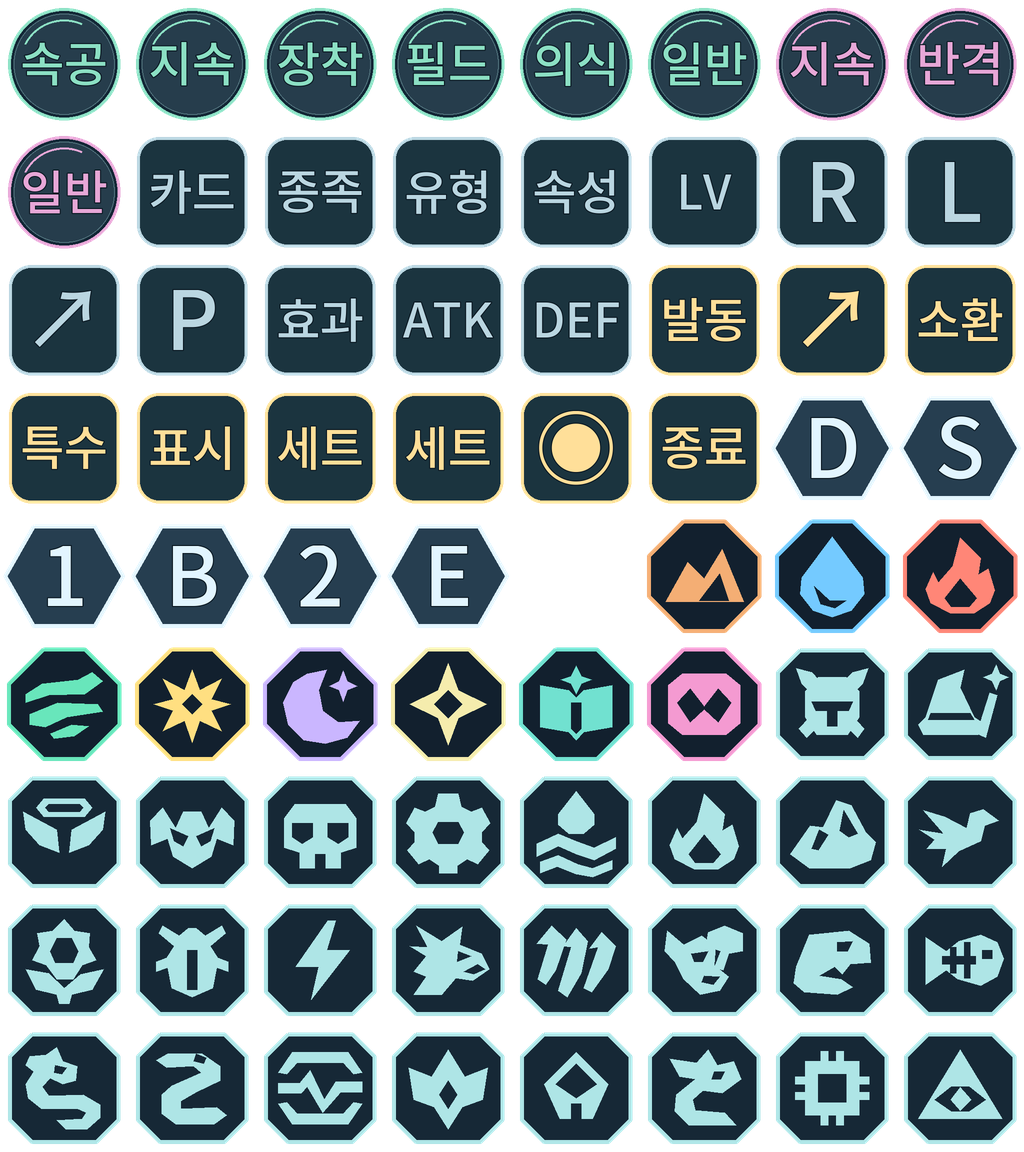
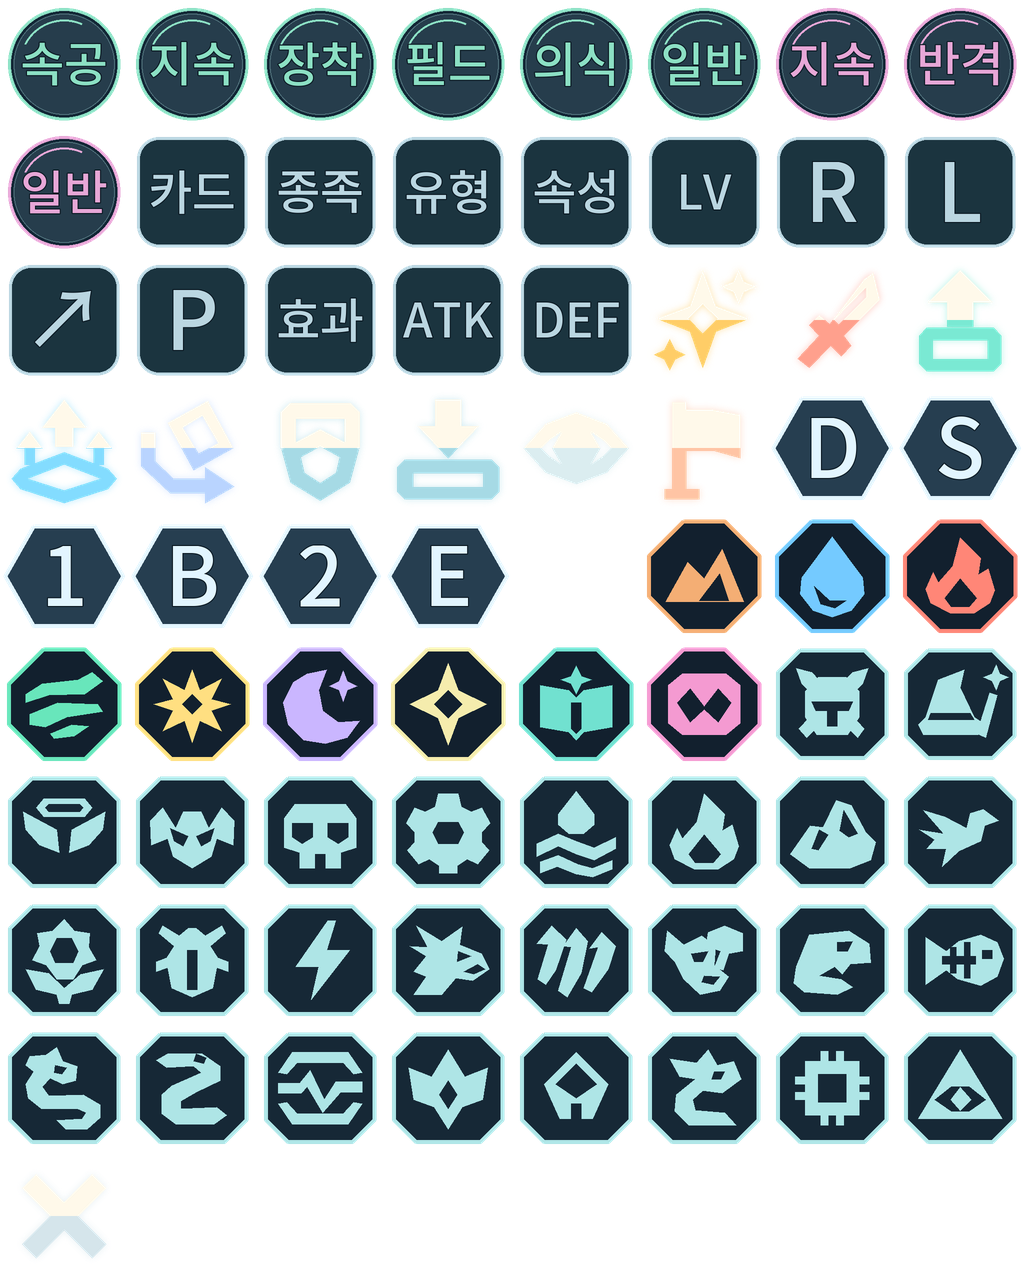
Replace duel action text badges with image pictograms

diff --git a/Tools/generate_duel_icons.py b/Tools/generate_duel_icons.py
@@ -3,7 +3,7 @@
 import json
 from pathlib import Path
 
-from PIL import Image, ImageDraw, ImageFont
+from PIL import Image, ImageDraw, ImageFilter, ImageFont
 
 
 ROOT = Path(__file__).resolve().parents[1]
@@ -24,9 +24,36 @@ FILTERS = {
     "pend": "P", "genre": "효과", "atk": "ATK", "def": "DEF",
 }
 ACTIONS = {
-    "action": "발동", "attack": "↗", "summon": "소환", "summonsp": "특수",
-    "turn_def": "표시", "setmonst": "세트", "set": "세트", "look": "◉", "surrender": "종료",
+    "action": ("#ffcd67", ("49,11 59,39 85,49 59,59 49,87 39,59 13,49 39,39",
+                            "77,10 81,20 91,24 81,28 77,38 73,28 63,24 73,20",
+                            "23,65 27,73 35,77 27,81 23,89 19,81 11,77 19,73"),
+               ("49,38 60,49 49,60 38,49",)),
+    "attack": ("#ffa08d", ("82,13 87,34 59,62 65,70 57,78 49,70 32,87 23,80 40,62 32,54 40,46 48,53 75,18",),
+               ("76,25 76,32 55,53 52,50",)),
+    "summon": ("#7ae9d3", ("50,11 75,36 60,36 60,55 40,55 40,36 25,36",
+                            "24,56 76,56 82,62 82,84 76,90 24,90 18,84 18,62"),
+               ("29,66 71,66 71,80 29,80",)),
+    "summonsp": ("#83dcff", ("50,12 67,34 57,34 57,49 43,49 43,34 33,34",
+                              "23,37 33,50 27,50 27,63 19,63 19,50 13,50",
+                              "77,37 87,50 81,50 81,63 73,63 73,50 67,50",
+                              "50,53 84,66 91,74 84,82 50,93 16,82 9,74 16,66"),
+                 ("50,63 78,74 50,83 22,74",)),
+    "turn_def": ("#b9d4ff", ("31,30 62,13 82,50 51,67",
+                              "21,38 21,60 35,74 60,74 60,65 83,80 60,93 60,85 33,85 10,64 10,38"),
+                 ("43,34 58,25 70,46 55,54",)),
+    "setmonst": ("#a6dae5", ("26,15 74,15 81,22 81,50 69,50 69,27 31,27 31,50 19,50 19,22",
+                              "50,35 80,51 73,77 50,91 27,77 20,51"),
+                 ("50,49 65,57 62,69 50,77 38,69 35,57",)),
+    "set": ("#a6dae5", ("40,12 60,12 60,33 74,33 50,58 26,33 40,33",
+                         "16,59 84,59 90,65 90,84 84,90 16,90 10,84 10,65"),
+            ("23,70 77,70 77,80 23,80",)),
+    "look": ("#dbedf0", ("9,50 26,31 50,22 74,31 91,50 74,69 50,78 26,69",
+                          "50,39 61,50 50,61 39,50"),
+             ("23,50 29,44 38,38 31,50 38,62 29,56", "77,50 71,44 62,38 69,50 62,62 71,56")),
+    "surrender": ("#ffc4a4", ("25,14 36,14 36,20 57,20 78,24 78,58 57,52 36,52 36,87 25,87",
+                               "19,82 46,82 46,90 19,90"), ()),
 }
+CANCEL_ACTION = ("#d5e5eb", ("28,17 50,39 72,17 83,28 61,50 83,72 72,83 50,61 28,83 17,72 39,50 17,28",), ())
 PHASES = {"draw": "D", "standby": "S", "main1": "1", "battle": "B", "main2": "2", "end": "E"}
 
 # Polygon points use a 100×100 canvas. A separate cutout keeps the marks readable at HUD size.
@@ -95,7 +122,7 @@ def entries():
         ("spell", SPELLS, "#8ce0c4", "orb"),
         ("trap", TRAPS, "#e7a7d7", "orb"),
         ("filter", FILTERS, "#bad6e1", "plate"),
-        ("action", ACTIONS, "#ffdf99", "plate"),
+        ("action", ACTIONS, None, "pictogram"),
         ("phase", PHASES, "#e2f5ff", "hex"),
     ):
         for key, label in labels.items():
@@ -104,6 +131,8 @@ def entries():
 
 
 def render(label, color, shape):
+    if shape == "pictogram":
+        return render_action(*label)
     size = CELL * SCALE
     image = Image.new("RGBA", (size, size))
     draw = ImageDraw.Draw(image)
@@ -142,23 +171,41 @@ def render(label, color, shape):
     return image.resize((CELL, CELL), Image.Resampling.LANCZOS)
 
 
+def contour_points(outline, size):
+    return [tuple(round(int(coord) * size / 100) for coord in pair.split(",")) for pair in outline.split()]
+
+
+def render_action(accent, symbol, cutouts):
+    size = CELL * SCALE
+    mask = Image.new("L", (size, size))
+    draw = ImageDraw.Draw(mask)
+    for contour in symbol:
+        draw.polygon(contour_points(contour, size), fill=255)
+    for contour in cutouts:
+        draw.polygon(contour_points(contour, size), fill=0)
+    image = Image.new("RGBA", mask.size, accent)
+    image.putalpha(mask.filter(ImageFilter.GaussianBlur(7)).point(lambda value: value * .52))
+    glyph = Image.new("RGBA", mask.size, accent)
+    glyph.paste("#fff9ea", (0, 0, size, size // 2), mask.crop((0, 0, size, size // 2)))
+    glyph.putalpha(mask)
+    image.alpha_composite(glyph)
+    return image.resize((CELL, CELL), Image.Resampling.LANCZOS)
+
+
 def render_identity(symbol, cutouts, accent, race=False):
     size = CELL * SCALE
     image = Image.new("RGBA", (size, size))
     draw = ImageDraw.Draw(image)
     ground = "#162836" if race else "#12202e"
 
-    def points(outline):
-        return [tuple(round(int(coord) * size / 100) for coord in pair.split(",")) for pair in outline.split()]
-
-    plate = points("25,8 75,8 92,25 92,75 75,92 25,92 8,75 8,25" if race else
-                   "34,7 66,7 93,34 93,66 66,93 34,93 7,66 7,34")
+    plate = contour_points("25,8 75,8 92,25 92,75 75,92 25,92 8,75 8,25" if race else
+                           "34,7 66,7 93,34 93,66 66,93 34,93 7,66 7,34", size)
     draw.polygon(plate, fill=ground)
     draw.line(plate + plate[:1], fill=accent, width=4 * SCALE, joint="curve")
     for contour in symbol:
-        draw.polygon(points(contour), fill=accent)
+        draw.polygon(contour_points(contour, size), fill=accent)
     for contour in cutouts:
-        draw.polygon(points(contour), fill=ground)
+        draw.polygon(contour_points(contour, size), fill=ground)
     return image.resize((CELL, CELL), Image.Resampling.LANCZOS)
 
 
@@ -168,6 +215,7 @@ def main():
                  for key, (accent, symbol, cutouts) in ATTRIBUTES.items())
     icons.extend((f"race/{key}", render_identity(symbol, cutouts, "#aee5e6", race=True))
                  for key, (symbol, cutouts) in RACES.items())
+    icons.append(("action/cancel", render_action(*CANCEL_ACTION)))
     rows = (len(icons) + COLUMNS - 1) // COLUMNS
     atlas = Image.new("RGBA", (COLUMNS * CELL, rows * CELL))
     for index, (_, icon) in enumerate(icons):

diff --git a/Assets/Scripts/UI/DuelHandActions.cs b/Assets/Scripts/UI/DuelHandActions.cs
@@ -228,7 +228,7 @@ namespace YGOPortable.UI
                 _cardActionsPrompt = prompt;
                 ClearCardActionButtons(1);
                 bool activations = actions.Any(action => CommandIcon(action.responseVal) == "ACTION");
-                AddCardAction(0, "ACTION", activations ? "효과 발동" : "행동 선택", () =>
+                AddCardAction(0, activations ? "ACTION" : "LOOK", activations ? "효과 발동" : "행동 선택", () =>
                 {
                     if (!CanShowCardActions || _session != session || !ReferenceEquals(session.ActivePrompt, prompt) ||
                         _cardActionAnchor != pile.root) return;
@@ -365,18 +365,22 @@ namespace YGOPortable.UI
             var slot = DuelUiKit.CreateRect(name ?? iconName, _cardActionsBar, Vector2.zero, Vector2.zero,
                 new Vector2(left, 0f), new Vector2(left + CardActionWidth, CardActionHeight));
             bool highlighted = iconName is "ACTION" or "ATTACK" or "SUMMON" or "SUMMONSP";
+            bool iconOnly = iconName == "ACTION";
             var face = _mobileLayout ? DuelUiKit.FillRect("Circle", slot) : DuelUiKit.CreateRect("Circle", slot,
-                new Vector2(.09f, .25f), new Vector2(.91f, 1f), Vector2.zero, Vector2.zero);
+                new Vector2(.09f, iconOnly ? .06f : .25f), new Vector2(.91f, 1f), Vector2.zero, Vector2.zero);
             var button = _mobileLayout
                 ? DuelStyle.Button(face, "Button", "", action, 14, highlighted)
                 : DuelStyle.RoundButton(face, "Button", highlighted ? DuelStyle.Gold : DuelStyle.Player, action);
-            var caption = DuelUiKit.CreateRect("Caption", slot, Vector2.zero, new Vector2(1f, .27f),
-                Vector2.zero, Vector2.zero);
-            DuelStyle.Shadow(DuelUiKit.AddFittedText(caption, "Label", label, 14, 9, TextAnchor.MiddleCenter,
-                Color.white, FontStyle.Bold), 1.5f);
-            var icon = DuelUiKit.CreateRect("Icon", button.transform, new Vector2(.24f, _mobileLayout ? .36f : .24f),
-                new Vector2(.76f, _mobileLayout ? .91f : .76f), Vector2.zero, Vector2.zero);
-            DuelUiKit.AddImage(icon.gameObject, DuelUiIcons.Action(iconName), Color.white, true, false);
+            if (!iconOnly)
+            {
+                var caption = DuelUiKit.CreateRect("Caption", slot, Vector2.zero, new Vector2(1f, .27f),
+                    Vector2.zero, Vector2.zero);
+                DuelStyle.Shadow(DuelUiKit.AddFittedText(caption, "Label", label, 14, 9, TextAnchor.MiddleCenter,
+                    Color.white, FontStyle.Bold), 1.5f);
+            }
+            DuelUiIcons.AddActionImage(button.transform, iconName,
+                iconOnly ? new Vector2(.14f, .14f) : new Vector2(.24f, _mobileLayout ? .36f : .24f),
+                iconOnly ? new Vector2(.86f, .86f) : new Vector2(.76f, _mobileLayout ? .91f : .76f));
         }
 
         private void AddRadialCardAction(int index, string iconName, string label, Action action, string name)
@@ -394,9 +398,12 @@ namespace YGOPortable.UI
             bool primary = iconName is "ACTION" or "ATTACK" or "SUMMON" or "SUMMONSP";
             var circle = DuelUiKit.FillRect("Circle", slot);
             var button = DuelStyle.RoundButton(circle, "Button", primary ? DuelStyle.Gold : DuelStyle.ChainCyan, action);
-            var icon = DuelUiKit.CreateRect("Icon", button.transform, new Vector2(.24f, .39f), new Vector2(.76f, .86f),
-                Vector2.zero, Vector2.zero);
-            DuelUiKit.AddImage(icon.gameObject, DuelUiIcons.Action(iconName), Color.white, true, false);
+            if (iconName == "ACTION")
+            {
+                DuelUiIcons.AddActionImage(button.transform, iconName, new Vector2(.14f, .14f), new Vector2(.86f, .86f));
+                return;
+            }
+            DuelUiIcons.AddActionImage(button.transform, iconName, new Vector2(.21f, .39f), new Vector2(.79f, .89f));
             var caption = DuelUiKit.CreateRect("Caption", button.transform, new Vector2(.08f, .12f), new Vector2(.92f, .39f),
                 Vector2.zero, Vector2.zero);
             DuelUiKit.AddFittedText(caption, "Label", label, 15, 9, TextAnchor.MiddleCenter, Color.white, FontStyle.Bold);

diff --git a/Assets/Scripts/Editor/TestDuelZoneBrowser.cs b/Assets/Scripts/Editor/TestDuelZoneBrowser.cs
@@ -924,6 +924,7 @@ namespace YGOPortable.Editor
                 var hoverArea = (RectTransform)bar.Find("HoverArea");
                 var activate = (RectTransform)bar.Find("ACTION/Circle/Button");
                 Require(bar.gameObject.activeInHierarchy && activate != null, "The hovered hand card had no activation icon.");
+                RequireActionIcon(activate, "ACTION");
                 var behind = DuelUiKit.FillRect("CardBehindActions", bar.parent);
                 behind.SetSiblingIndex(bar.GetSiblingIndex());
                 DuelUiKit.AddImage(behind.gameObject, DuelUiKit.WhiteSprite, Color.white);
@@ -961,8 +962,10 @@ namespace YGOPortable.Editor
             internal void VerifyGraveEffectButton(bool visible)
             {
                 Field.Refresh();
-                Require(Private<Button>(Field, "_graveEffectButton").gameObject.activeInHierarchy == visible,
+                var button = Private<Button>(Field, "_graveEffectButton");
+                Require(button.gameObject.activeInHierarchy == visible,
                     "The grave effect shortcut did not match the current activation availability.");
+                if (visible) RequireActionIcon(button.transform, "ACTION");
                 Require(StackRoot("_myGyTile").Find("PlayableGlow").gameObject.activeInHierarchy == visible,
                     "The grave effect glow did not match the current activation availability.");
             }
@@ -1018,10 +1021,19 @@ namespace YGOPortable.Editor
                 Field.HandleDuelPad(new DeckPadFrame(Vector2Int.zero, DeckPadButtons.Submit));
                 picker = VerifyActivationPicker(prompt, "묘지 효과 발동", code);
                 var action = picker.Find("Footer/Activate/B").GetComponent<Button>();
-                Require(action.GetComponentInChildren<Text>().text == "발동한다", "The grave effect was not actionable in the chooser.");
+                Require(action.IsInteractable(), "The grave effect was not actionable in the chooser.");
+                RequireActionIcon(action.transform, "ACTION");
                 Click(action);
                 Require(!Modals.IsPromptOpen && !ReferenceEquals(prompt, _duel.ActivePrompt),
                     "Activating a grave effect did not close the picker and continue the duel.");
+            }
+
+            private static void RequireActionIcon(Transform button, string key)
+            {
+                var icon = button.Find("Icon")?.GetComponent<Image>();
+                Require(icon != null && icon.sprite != null && icon.sprite == DuelUiIcons.Action(key) &&
+                    !icon.raycastTarget && button.GetComponentsInChildren<Text>(true).All(label => label.text.Length == 0),
+                    $"The {button.name} command did not use a text-free {key} image.");
             }
 
             private Transform VerifyActivationPicker(DuelPrompt prompt, string title, params uint[] expected)
@@ -1096,6 +1108,8 @@ namespace YGOPortable.Editor
                     var indicator = (RectTransform)summonButton.transform;
                     var effectButton = Private<Button>(Field, "_extraEffectButton");
                     var effectPlate = (RectTransform)effectButton.transform.parent;
+                    RequireActionIcon(summonButton.transform, "SUMMONSP");
+                    RequireActionIcon(effectButton.transform, "ACTION");
                     Require(indicator.IsChildOf(pile) && ((RectTransform)indicator.parent).anchorMin.y > .5f,
                         "Summon availability must be shown at the top of the player's Extra Deck.");
                     Require(effectButton.gameObject.activeInHierarchy && effectPlate.IsChildOf(pile) &&

diff --git a/Assets/Scripts/UI/DuelFieldUI.cs b/Assets/Scripts/UI/DuelFieldUI.cs
@@ -1108,16 +1108,16 @@ namespace YGOPortable.UI
             _oppGyTile = CreateStackTile(Cell(1, 1), true, YgoConstants.LOCATION_GRAVE, "묘지");
             _oppBanTile = CreateStackTile(Cell(1, 2), true, YgoConstants.LOCATION_REMOVED, "제외");
 
-            _extraSummonButton = BuildPileActionButton(_myExtraTile, "ExtraSummon", "특수 소환", OpenExtraSummonPicker);
-            _extraEffectButton = BuildPileActionButton(_myExtraTile, "ExtraEffect", "발동",
+            _extraSummonButton = BuildPileActionButton(_myExtraTile, "ExtraSummon", "SUMMONSP", OpenExtraSummonPicker);
+            _extraEffectButton = BuildPileActionButton(_myExtraTile, "ExtraEffect", "ACTION",
                 () => OpenPileEffectPicker(YgoConstants.LOCATION_EXTRA), activation: true);
-            _graveEffectButton = BuildPileActionButton(_myGyTile, "GraveEffect", "효과 발동",
+            _graveEffectButton = BuildPileActionButton(_myGyTile, "GraveEffect", "ACTION",
                 () => OpenPileEffectPicker(YgoConstants.LOCATION_GRAVE), activation: true);
-            _banishedEffectButton = BuildPileActionButton(_myBanTile, "BanishedEffect", "효과 발동",
+            _banishedEffectButton = BuildPileActionButton(_myBanTile, "BanishedEffect", "ACTION",
                 () => OpenPileEffectPicker(YgoConstants.LOCATION_REMOVED), activation: true);
         }
 
-        private static Button BuildPileActionButton(StackTileView tile, string name, string label, Action action, bool activation = false)
+        private static Button BuildPileActionButton(StackTileView tile, string name, string icon, Action action, bool activation = false)
         {
             var indicator = DuelUiKit.CreateRect(name, tile.root, new Vector2(.07f, .645f),
                 new Vector2(.93f, .965f), Vector2.zero, Vector2.zero);
@@ -1126,16 +1126,7 @@ namespace YGOPortable.UI
             var rim = AddHudSurface(rect, tone, activation
                 ? new Color(.24f, .16f, .066f, .99f) : new Color(.063f, .18f, .22f, .99f));
             var button = AddHudButton(rim, action);
-            var caption = rect;
-            if (activation)
-            {
-                var symbol = DuelUiKit.CreateRect("Effect", rect, new Vector2(.055f, .13f),
-                    new Vector2(.29f, .87f), Vector2.zero, Vector2.zero);
-                DuelUiKit.AddImage(symbol.gameObject, DuelStatSymbols.BattleEffect, tone, true, false);
-                caption = DuelUiKit.CreateRect("Caption", rect, new Vector2(.29f, 0f), new Vector2(.96f, 1f),
-                    Vector2.zero, Vector2.zero);
-            }
-            DuelUiKit.AddFittedText(caption, "Label", label, 17, 9, TextAnchor.MiddleCenter, tone, FontStyle.Bold);
+            DuelUiIcons.AddActionImage(rect, icon, new Vector2(.12f, .045f), new Vector2(.88f, .955f));
             button.gameObject.SetActive(false);
             return button;
         }

diff --git a/Assets/Scripts/UI/DuelPromptModals.cs b/Assets/Scripts/UI/DuelPromptModals.cs
@@ -651,8 +651,13 @@ namespace YGOPortable.UI
                 Vector2.zero, Vector2.zero);
             var pass = DuelUiKit.CreateRect("Pass", footer, new Vector2(.655f, 0f), new Vector2(.817f, 1f), Vector2.zero, Vector2.zero);
             _chainPass = DuelStyle.Button(pass, "B", "취소", OnModalCloseClicked, 16);
+            DuelUiIcons.AddActionImage(_chainPass.transform, "CANCEL", new Vector2(.045f, .13f), new Vector2(.25f, .87f));
+            var passText = _chainPass.GetComponentInChildren<Text>().rectTransform;
+            passText.anchorMin = new Vector2(.26f, 0f);
+            passText.anchorMax = new Vector2(.96f, 1f);
             var activate = DuelUiKit.CreateRect("Activate", footer, new Vector2(.836f, 0f), Vector2.one, Vector2.zero, Vector2.zero);
-            _chainActivate = DuelStyle.Button(activate, "B", "효과 발동", ConfirmChainChoice, 16, gold: true);
+            _chainActivate = DuelStyle.Button(activate, "B", "", ConfirmChainChoice, 16, gold: true);
+            DuelUiIcons.AddActionImage(_chainActivate.transform, "ACTION", new Vector2(.12f, .06f), new Vector2(.88f, .94f));
             _chainBox.gameObject.SetActive(false);
         }
 
@@ -1233,7 +1238,6 @@ namespace YGOPortable.UI
             _chainSummary.text = summary;
             _chainPass.transform.parent.gameObject.SetActive(passLabel != null);
             _chainPass.GetComponentInChildren<Text>(true).text = compact && passLabel != null ? "발동하지 않는다" : passLabel ?? "";
-            _chainActivate.GetComponentInChildren<Text>(true).text = compact ? "발동한다" : "효과 발동";
             _chainActivate.interactable = choices.Length > 0;
             _chainName.text = _chainSource.text = _chainEffect.text = "";
 

diff --git a/Assets/Scripts/Editor/TestCardPresentation.cs b/Assets/Scripts/Editor/TestCardPresentation.cs
@@ -45,6 +45,10 @@ namespace YGOPortable.Editor
             Require(DuelUiIcons.Find("phase/main2") != null && DuelUiIcons.Action("SUMMONSP") != null &&
                 DuelUiKit.GetSpellTrapSprite(YgoConstants.TYPE_TRAP | YgoConstants.TYPE_COUNTER) != null,
                 "A phase, command, or spell and trap icon did not resolve.");
+            var commands = new[] { "ACTION", "ATTACK", "SUMMON", "SUMMONSP", "TURN_DEF", "SETMONST",
+                "SET", "LOOK", "SURRENDER", "CANCEL" }.Select(DuelUiIcons.Action).ToArray();
+            Require(commands.All(sprite => sprite != null) && commands.Distinct().Count() == commands.Length,
+                "The duel commands did not each resolve to a distinct pictogram.");
             var suppliedSleeve = Resources.Load<Texture2D>(CardArtLoader.CardSleeveResource);
             var fileSleeve = CardArtLoader.GetDuelVisualsSprite(CardArtLoader.CardSleeveFile);
             var sleeve = CardArtLoader.GetCardBackSprite();

diff --git a/Assets/Scripts/UI/DuelUiIcons.cs b/Assets/Scripts/UI/DuelUiIcons.cs
@@ -1,6 +1,7 @@
 using System;
 using System.Collections.Generic;
 using UnityEngine;
+using UnityEngine.UI;
 using YGOPortable.Core;
 
 namespace YGOPortable.UI
@@ -49,6 +50,12 @@ namespace YGOPortable.UI
         }
 
         internal static Sprite Action(string key) => key == null ? null : Find("action/" + key.ToLowerInvariant());
+
+        internal static Image AddActionImage(Transform parent, string key, Vector2 min, Vector2 max)
+        {
+            var rect = DuelUiKit.CreateRect("Icon", parent, min, max, Vector2.zero, Vector2.zero);
+            return DuelUiKit.AddImage(rect.gameObject, Action(key), Color.white, true, false);
+        }
 
         internal static Sprite Filter(string key) => Find("filter/" + key.ToLowerInvariant());
 
